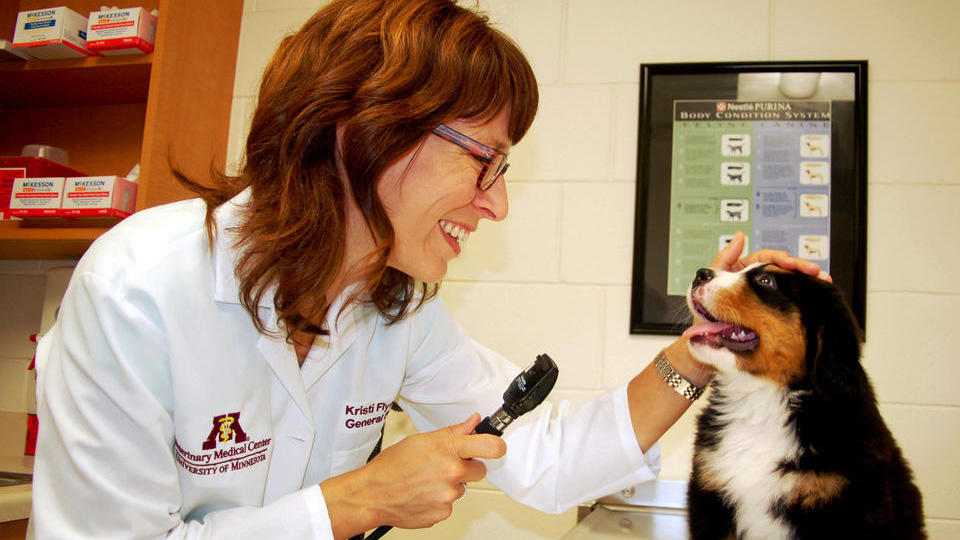
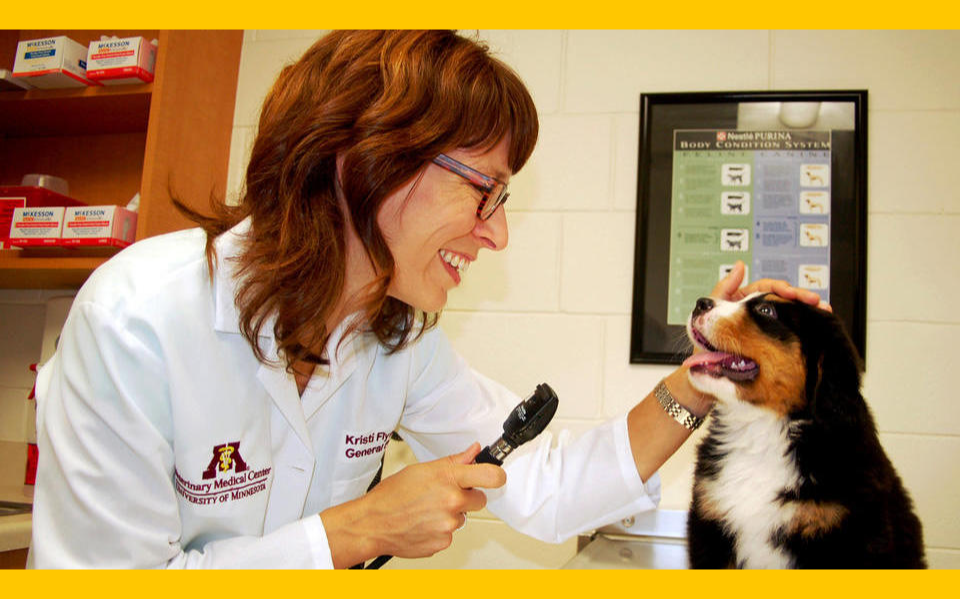
veterina

diff --git a/index.html b/index.html
@@ -60,7 +60,7 @@
             <div class="carousel-item active">
                 <img src="slike/slika1.jpg" alt="">
                 <div class="carousel-caption">
-                    <h1 class="display-2">Veterinarska ambulanta</h1>
+                    <h1 class="display-2" id="naslov">Veterinarska ambulanta</h1>
                     <h3>20 godina postojanja</h3>
                     <button type="button" class="btn btn-light btn-lg">
                         Liječenje
@@ -176,50 +176,43 @@
         </div>
     </div>
     <hr class="my-4">
-
+    <h1 class="h1crud">UNESI, UREDI, OBRIŠI PACIJENTA</h1>
     <!-- Za unos podataka -->
-    <button class="fun" data-toggle="collapse" data-target="#emoji">
-        Klikni da možeš unijeti podatke o ljubimcima
-    </button>
-    <div id="emoji" class="collapse">
-        <div class="container-fluid padding">
-            <div class="row" text-center>
-                <!-- CRUD -->
 
-                <div class="container" id="crud">
-                    <div class="row">
-                        <div class="col-xs-12 col-sm-4 col-6">
-                            <form class="border border-info p-3" id="form">
-                                <h2>Unesi podatke o pacijentu</h2>
-                                <div class="form-group">
-                                    <label for="name">
-                                        <svg xmlns="http://www.w3.org/2000/svg" width="16" height="16"
-                                            fill="currentColor" class="bi bi-person-fill" viewBox="0 0 16 16">
-                                            <path
-                                                d="M3 14s-1 0-1-1 1-4 6-4 6 3 6 4-1 1-1 1H3zm5-6a3 3 0 1 0 0-6 3 3 0 0 0 0 6z" />
-                                        </svg>Korisnik</label>
-                                    <textarea class="form-control" id="name" rows="3"
-                                        placeholder="Unesi podatke"></textarea>
-                                </div>
-                                <button type="submit" class="btn btn-primary">
-                                    <svg xmlns="http://www.w3.org/2000/svg" width="16" height="16" fill="currentColor"
-                                        class="bi bi-plus" viewBox="0 0 16 16">
-                                        <path
-                                            d="M8 4a.5.5 0 0 1 .5.5v3h3a.5.5 0 0 1 0 1h-3v3a.5.5 0 0 1-1 0v-3h-3a.5.5 0 0 1 0-1h3v-3A.5.5 0 0 1 8 4z" />
-                                    </svg>Dodaj pacijenta
-                                </button>
-                            </form>
-                        </div>
-                        <div class="col-xs-12 col-sm-8 col-6">
-                            <div class="user" id="nameTR">
+    <!-- CRUD -->
 
-                            </div>
-                        </div>
+    <div class="container" id="crud">
+        <div class="row">
+            <div class="col-xs-12 col-sm-4 col-6">
+                <form class="border border-info p-3" id="form">
+                    <h2>Unesi podatke o pacijentu</h2>
+                    <div class="form-group">
+                        <label for="name">
+                            <svg xmlns="http://www.w3.org/2000/svg" width="16" height="16" fill="currentColor"
+                                class="bi bi-person-fill" viewBox="0 0 16 16">
+                                <path d="M3 14s-1 0-1-1 1-4 6-4 6 3 6 4-1 1-1 1H3zm5-6a3 3 0 1 0 0-6 3 3 0 0 0 0 6z" />
+                            </svg>Korisnik</label>
+                        <textarea class="form-control" id="name" rows="3" placeholder="Unesi podatke"></textarea>
                     </div>
-                </div>
+                    <button type="submit" class="btn btn-primary">
+                        <svg xmlns="http://www.w3.org/2000/svg" width="16" height="16" fill="currentColor"
+                            class="bi bi-plus" viewBox="0 0 16 16">
+                            <path
+                                d="M8 4a.5.5 0 0 1 .5.5v3h3a.5.5 0 0 1 0 1h-3v3a.5.5 0 0 1-1 0v-3h-3a.5.5 0 0 1 0-1h3v-3A.5.5 0 0 1 8 4z" />
+                        </svg>Dodaj pacijenta
+                    </button>
+                </form>
+            </div>
+            <div class="col-xs-12 col-sm-8 col-6">
+                <div class="user" id="nameTR">
 
+                </div>
             </div>
         </div>
+    </div>
+
+    </div>
+    </div>
     </div>
     <!-- Tim  -->
     <div class="container-fluid padding">

diff --git a/styles.css b/styles.css
@@ -16,9 +16,9 @@
     height: 80px;
 }
 
-.carousel img {
-    width: 100%;
-    height: 700px;
+.carousel-inner {
+    text-align: center;
+    justify-content: center;
 }
 
 .carousel-caption {
@@ -70,6 +70,16 @@
     width: 75%;
     margin: 0 auto;
     padding-top: 2rem;
+}
+
+.h1crud {
+    text-align: center;
+    font-size: 75px;
+    padding-bottom: 20px;
+}
+
+#crud {
+    padding-bottom: 300px;
 }
 
 .welcome hr {
